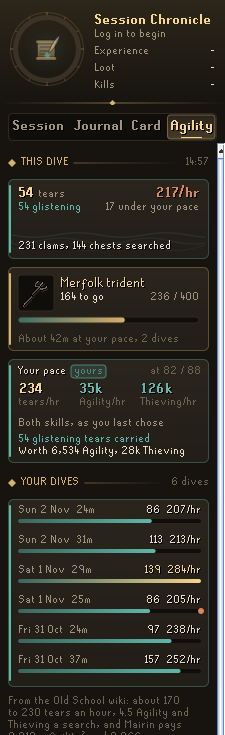
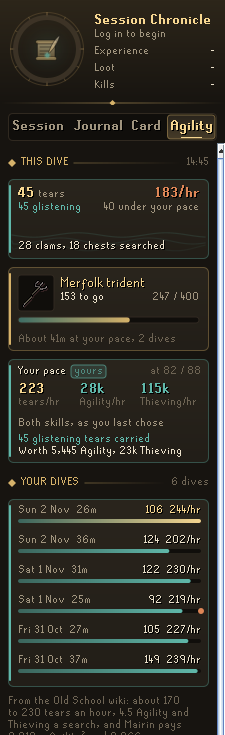
Count only successful searches, and show it on a realistic dive
The dive card's clams and chests are the dive's own successful searches,
read from Thieving experience. The screenshots came from a simulation
that gave search experience on every attempt and a tear on only some of
them, so a 15-minute dive showed 375 searches against 54 tears. On the
wiki only a successful search pays ("A successful search also rewards
4.5 Agility and Thieving experience"), with one of each tear, so the
searches counted should be the tears found plus the dive's first object,
which gives no tears.

The simulation now pays only on success, and the screenshots are
retaken: 45 tears and 46 searches in 14:45. A new test plays 375
attempts over 15 minutes and checks that failed attempts are not
counted, that searches equal the tears plus the first object, and that
the pace falls within the wiki's tears an hour. The card's tooltip now
says that clams and chests count successful searches only.

diff --git a/src/test/java/com/codex/sessionchronicle/core/UnderwaterTest.java b/src/test/java/com/codex/sessionchronicle/core/UnderwaterTest.java
@@ -354,6 +354,53 @@ public class UnderwaterTest
 		assertEquals(400 - 43, c.tearsNeeded());
 	}
 
+	@Test
+	public void searchesCountedMatchTheTearsOnARealisticDive()
+	{
+		// Fifteen minutes of attempts every four ticks. The wiki: only a successful search pays ("A successful
+		// search also rewards 4.5 Agility and Thieving experience"), at about 12% to 16% by Thieving level,
+		// with one of each tear; the dive's first object gives no tears. A failed attempt gives nothing and
+		// must not be counted, so the searches counted are the tears found plus that first object.
+		java.util.Random r = new java.util.Random(5);
+		DiveWatch w = new DiveWatch();
+		int m = 0;
+		int g = 0;
+		int a = 3_000_000;
+		int th = 4_000_000;
+		int attempts = 0;
+		w.tick(0, T0, under(m, g, a, th));
+		for (int tick = 1; tick <= 1500; tick++)
+		{
+			if (tick % 4 == 0)
+			{
+				attempts++;
+				w.clicked(attempts % 3 == 0 ? Underwater.Spot.CHEST : Underwater.Spot.CLAM, tick);
+				boolean first = attempts == 1;
+				if (first || r.nextDouble() < 0.14)
+				{
+					int xp = r.nextBoolean() ? 4 : 5;
+					a += xp;
+					th += xp;
+					if (!first)
+					{
+						m++;
+						g++;
+					}
+				}
+			}
+			w.tick(tick, T0, under(m, g, a, th));
+		}
+		UnderwaterLog.Dive d = w.current();
+		assertEquals(375, attempts);
+		assertEquals(m, d.getTears());
+		assertEquals(d.getTears() + 1, d.getSearches());
+		assertEquals(d.getSearches(), d.getClams() + d.getChests());
+		assertEquals(0, d.getOthers());
+		assertTrue("far fewer searches than attempts", d.getSearches() < attempts / 4);
+		// About 14% of 375 attempts in 15 minutes: within the wiki's 170-230 tears an hour.
+		assertTrue(d.tearsPerHour() > 170 && d.tearsPerHour() < 260);
+	}
+
 	private static UnderwaterLog.Dive dive(long ticks, long tears)
 	{
 		UnderwaterLog.Dive d = new UnderwaterLog.Dive(T0);

diff --git a/src/main/java/com/codex/sessionchronicle/ui/UnderwaterView.java b/src/main/java/com/codex/sessionchronicle/ui/UnderwaterView.java
@@ -89,8 +89,9 @@ public final class UnderwaterView
 			this.u = u;
 			setOpaque(false);
 			setPreferredSize(new Dimension(10, HEIGHT));
-			setToolTipText("<html>A dive runs from its first tear or search to its last.<br>A search is told a clam or a chest "
-				+ "by what you clicked; Thieving experience is how a search is seen.</html>");
+			setToolTipText("<html>A dive runs from its first tear or search to its last.<br>Clams and chests count successful searches, "
+				+ "the ones that give Thieving experience; a failed search gives nothing and is not counted.<br>"
+				+ "A search is told a clam or a chest by what you clicked.</html>");
 		}
 
 		@Override
